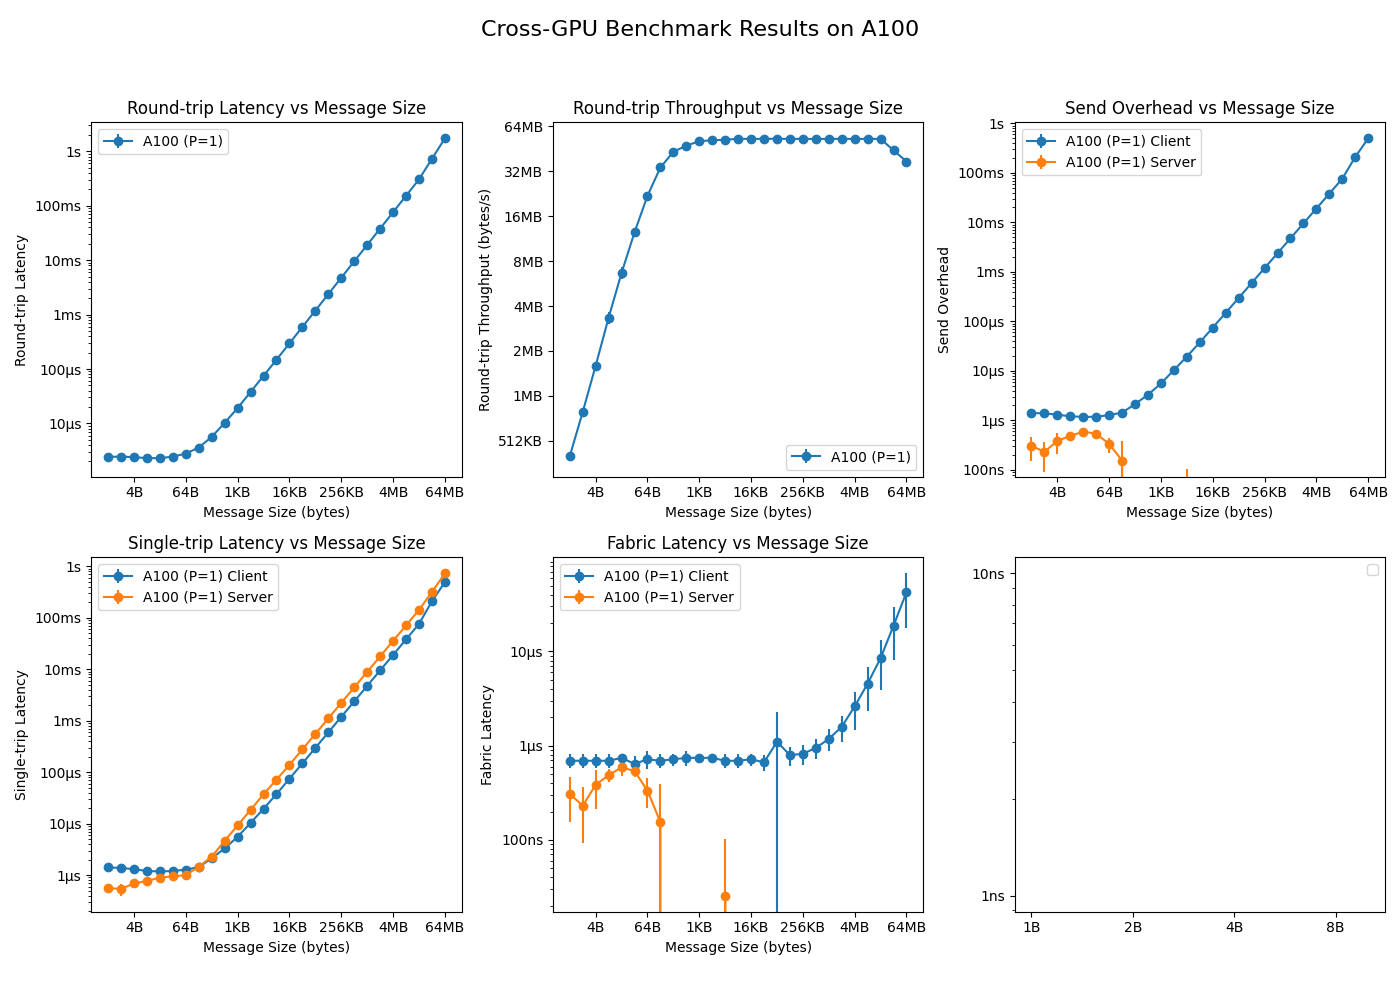
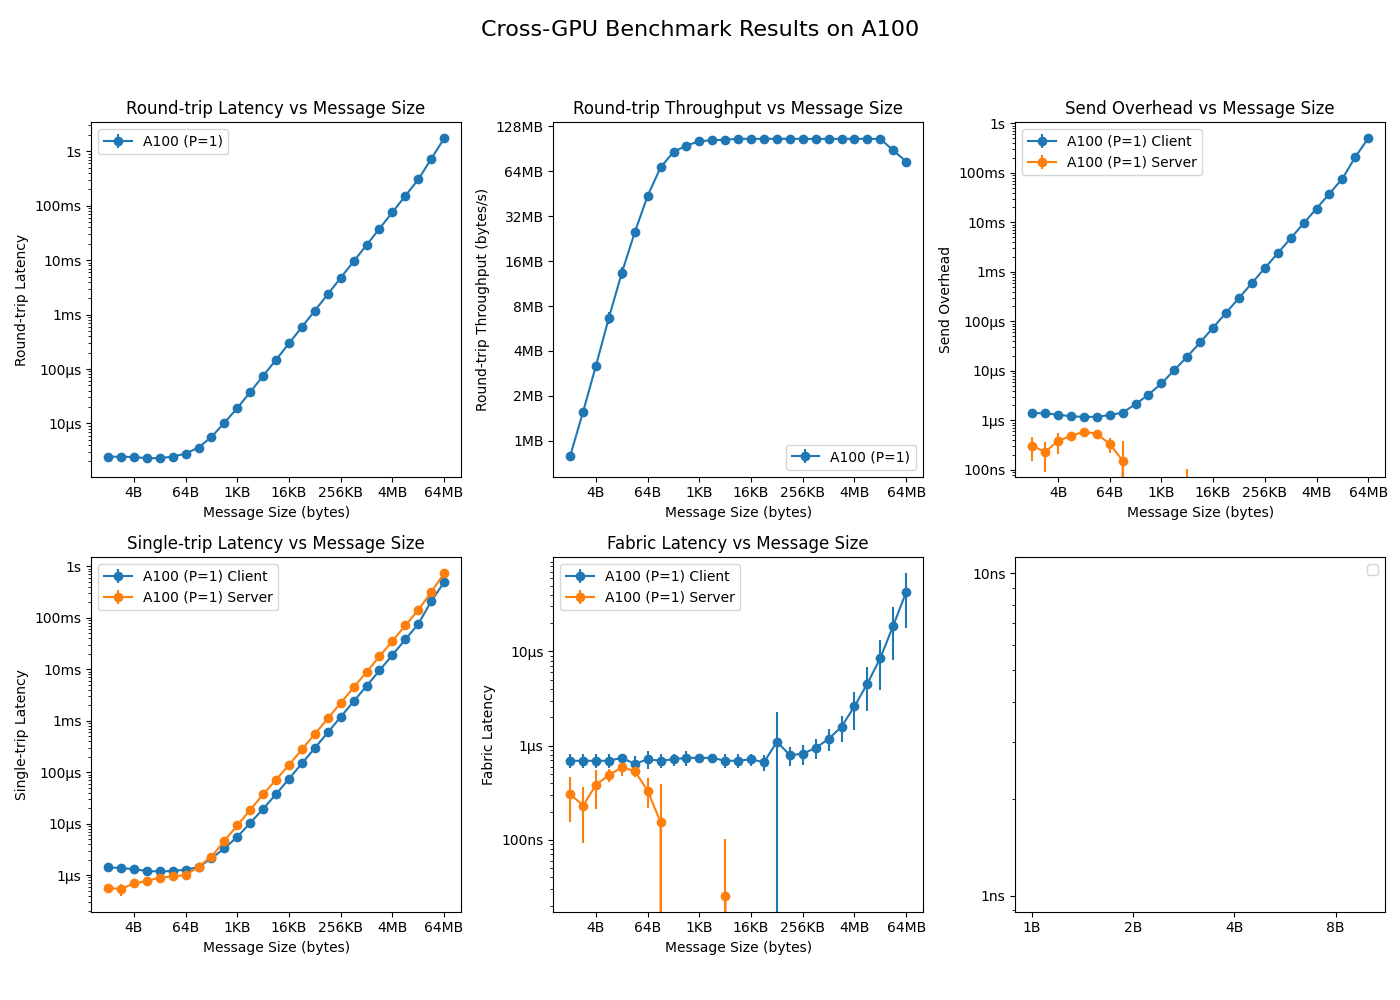
Scale RTT by factor of 2

diff --git a/src/cross-gpu/plots/produce_device_plot.py b/src/cross-gpu/plots/produce_device_plot.py
@@ -24,7 +24,7 @@ def compute_metrics_pair(pair_entries, msg_size, num_pairs, clock_freq_ghz=1.41)
     server_trans_ends   = [cycles_to_ns(entry["server_trans_end"]) for entry in pair_entries.values()]
 
     round_trip_latency         = max(client_recv_ends) - min(client_trans_starts)
-    round_trip_throughput      = msg_size / (round_trip_latency / 1e9)  # bytes per second (ns -> s)
+    round_trip_throughput      = 2 * msg_size / (round_trip_latency / 1e9)  # bytes per second (ns -> s)
     single_trip_latency_client = max(server_recv_ends) - min(client_trans_starts)
     single_trip_latency_server = max(client_recv_ends) - min(server_trans_starts)
     send_overhead_client       = min(server_recv_starts) - min(client_trans_starts)
